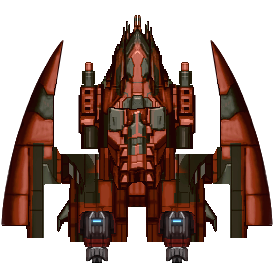
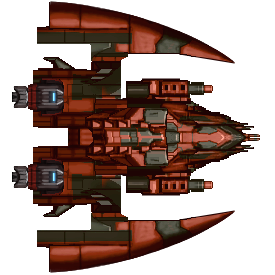
ship image rotates

diff --git a/lib/ship.js b/lib/ship.js
@@ -22,9 +22,17 @@
 	Ship.prototype.draw = function (ctx) {
 		var img = new Image();
 		img.onload = function () {
-			ctx.drawImage(img, this.pos[0], this.pos[1], 40, 40);
+			this.drawRotated(ctx, img);
 		}.bind(this);
 		img.src = 'images/spaceship.png';
+	}
+	
+	Ship.prototype.drawRotated = function (ctx, img) {
+		ctx.save();
+		ctx.translate(this.pos[0], this.pos[1]);
+		ctx.rotate(this.radAngle);
+		ctx.drawImage(img, -(this.radius), -(this.radius), this.radius * 2, this.radius * 2);
+		ctx.restore();
 	}
 	
 	Ship.prototype.relocate = function () {
@@ -42,15 +50,8 @@
 		this.vel[1] -= this.direction[1] / 4;
 	}
 	
-	Ship.prototype.turnLeft = function () {
-		this.radAngle -= 0.2;
-		this.direction[0] = Math.cos(this.radAngle)
-		this.direction[1] = Math.sin(this.radAngle)
-		console.log(this.direction);
-	}
-	
-	Ship.prototype.turnRight = function () {
-		this.radAngle += 0.2;
+	Ship.prototype.turn = function (shift) {
+		this.radAngle += shift;
 		this.direction[0] = Math.cos(this.radAngle)
 		this.direction[1] = Math.sin(this.radAngle)
 		console.log(this.direction);

diff --git a/lib/gameView.js b/lib/gameView.js
@@ -29,11 +29,11 @@
 		}.bind(this))
 		
 		key('a', function() {
-			this.game.ship.turnLeft()
+			this.game.ship.turn(-0.2)
 		}.bind(this))
 		
 		key('d', function() {
-			this.game.ship.turnRight()
+			this.game.ship.turn(0.2)
 		}.bind(this))
 		
 		key('space', function() {
